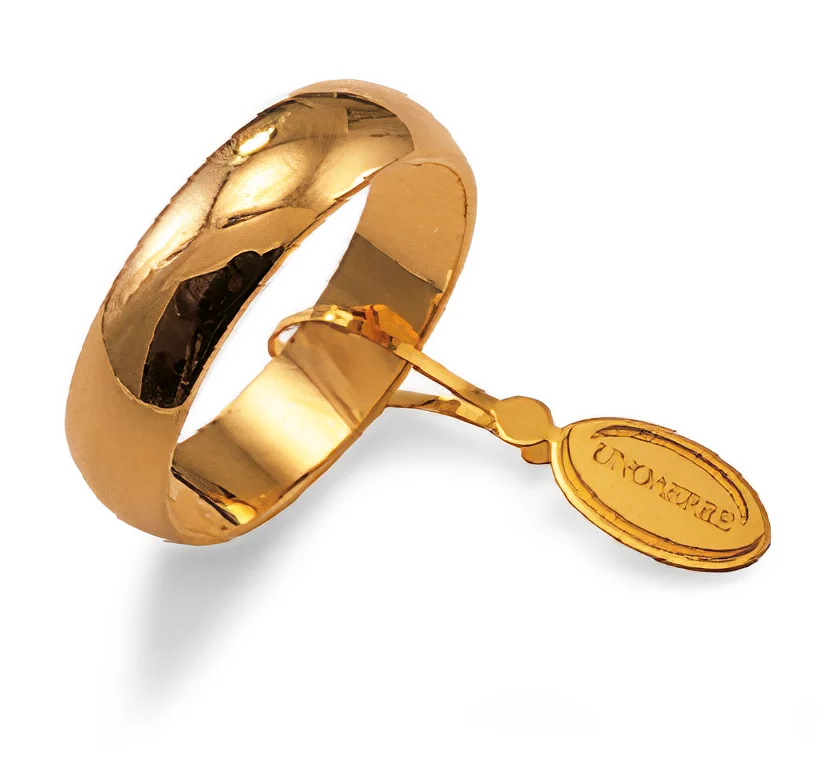
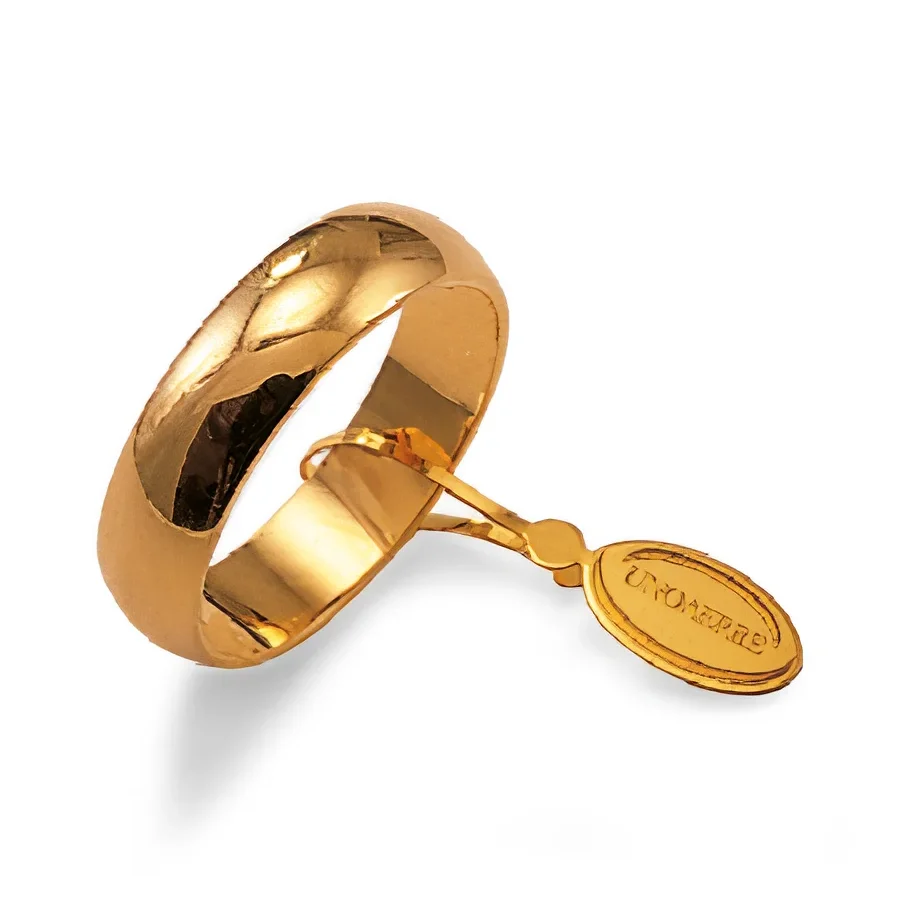
Pagina fedi: foto dei profili centrate nel tondo
Le 4 foto Unoaerre della sezione profili ora sono quadrate, con fede e
cartellino centrati e interi dentro il cerchio.

Changed region(s): [[0.0622, 0.0908, 0.933, 0.8474], [0.1244, 0.6658, 0.1555, 0.6961]]

diff --git a/pagine/fedi-nuziali.html b/pagine/fedi-nuziali.html
@@ -257,28 +257,28 @@
         <div class="profili">
           <article class="profilo">
             <div class="profilo__head">
-              <figure class="profilo__thumb"><img src="../images/catalog-brands/unoaerre/pagine/fedi-4-1.webp" alt="Fede classica UNOAERRE da 5 mm in oro giallo" width="836" height="744" loading="lazy" decoding="async"></figure>
+              <figure class="profilo__thumb"><img src="../images/catalog-brands/unoaerre/pagine/fedi-4-1.webp" alt="Fede classica UNOAERRE da 5 mm in oro giallo" width="940" height="940" loading="lazy" decoding="async"></figure>
               <div><h3>Fede classica</h3></div>
             </div>
           </article>
           <span class="profilo__divider" aria-hidden="true"></span>
           <article class="profilo">
             <div class="profilo__head">
-              <figure class="profilo__thumb"><img src="../images/catalog-brands/unoaerre/pagine/fedi-4-2.webp" alt="Fede comoda UNOAERRE da 5 mm in oro giallo" width="788" height="748" loading="lazy" decoding="async"></figure>
+              <figure class="profilo__thumb"><img src="../images/catalog-brands/unoaerre/pagine/fedi-4-2.webp" alt="Fede comoda UNOAERRE da 5 mm in oro giallo" width="975" height="975" loading="lazy" decoding="async"></figure>
               <div><h3>Fede comoda</h3></div>
             </div>
           </article>
           <span class="profilo__divider" aria-hidden="true"></span>
           <article class="profilo">
             <div class="profilo__head">
-              <figure class="profilo__thumb"><img src="../images/catalog-brands/unoaerre/pagine/fedi-4-3.webp" alt="Fede francesina UNOAERRE da 3 mm in oro giallo" width="876" height="756" loading="lazy" decoding="async"></figure>
+              <figure class="profilo__thumb"><img src="../images/catalog-brands/unoaerre/pagine/fedi-4-3.webp" alt="Fede francesina UNOAERRE da 3 mm in oro giallo" width="999" height="999" loading="lazy" decoding="async"></figure>
               <div><h3>Fede francesina</h3></div>
             </div>
           </article>
           <span class="profilo__divider" aria-hidden="true"></span>
           <article class="profilo">
             <div class="profilo__head">
-              <figure class="profilo__thumb"><img src="../images/catalog-brands/unoaerre/pagine/fedi-4-4.webp" alt="Fede mantovana UNOAERRE da 5 mm in oro giallo" width="836" height="760" loading="lazy" decoding="async"></figure>
+              <figure class="profilo__thumb"><img src="../images/catalog-brands/unoaerre/pagine/fedi-4-4.webp" alt="Fede mantovana UNOAERRE da 5 mm in oro giallo" width="897" height="897" loading="lazy" decoding="async"></figure>
               <div><h3>Fede mantovana</h3></div>
             </div>
           </article>
